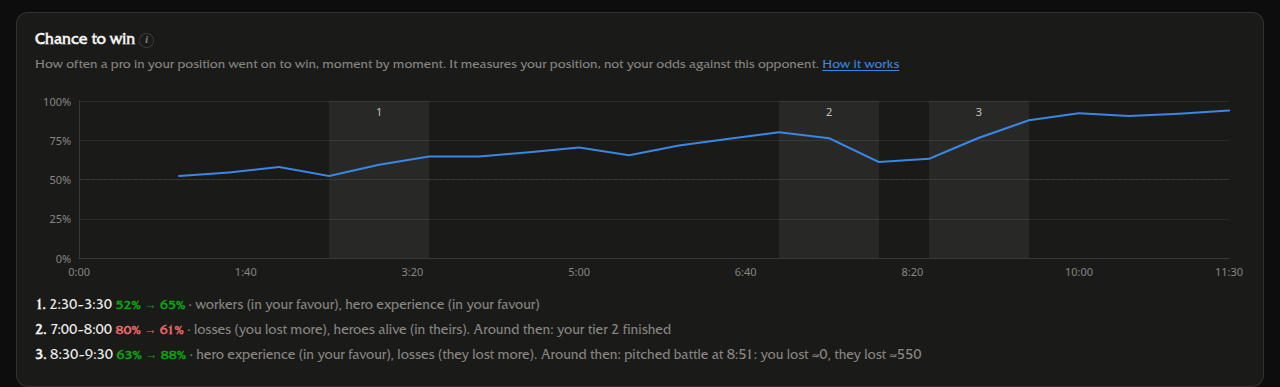
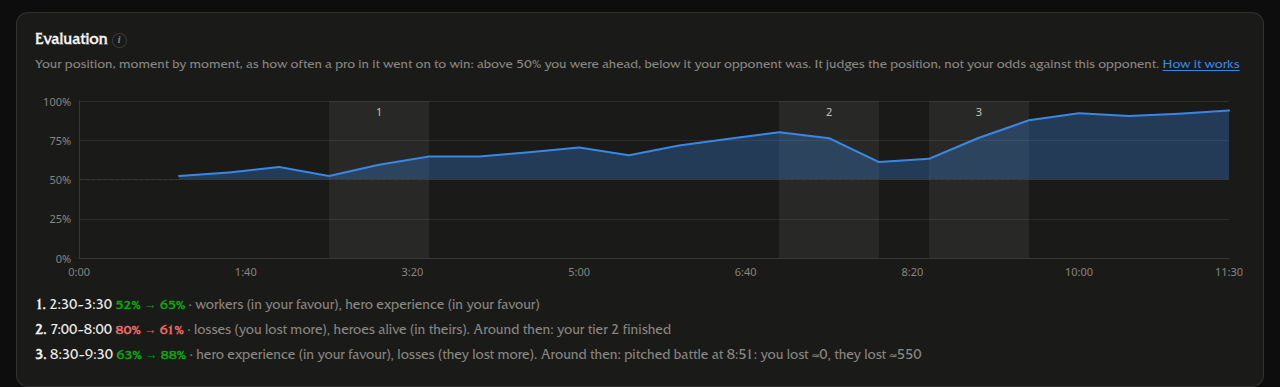
README and report: the evaluation curve, with the new screenshot

Changed region(s): [[0.125, 0.2791, 0.9688, 0.4651], [0.0312, 0.155, 0.9688, 0.186], [0.0312, 0.062, 0.125, 0.124]]

diff --git a/docs/win-chance/report.html b/docs/win-chance/report.html
@@ -1,5 +1,5 @@
 <!doctype html>
-<html lang="en"><head><meta charset="utf-8"><title>Replay Altar: the win-chance curve</title>
+<html lang="en"><head><meta charset="utf-8"><title>Replay Altar: the evaluation curve</title>
 <style>
   @page { size: A4; }
   body { font-family: "Inter", "Helvetica Neue", Arial, sans-serif; color: #0b0b0b; font-size: 10.5pt; line-height: 1.5; max-width: 760px; margin: 0 auto; }
@@ -16,10 +16,10 @@
   .eq { text-align: center; margin: 8px 0; font-family: "Cambria Math", "STIX Two Math", Georgia, serif; font-size: 11pt; }
   .best { font-weight: 600; }
 </style></head><body>
-<h1>The win-chance curve</h1>
+<h1>The evaluation curve</h1>
 <p class="sub">Replay Altar technical report · 2026-10-22 · results from commit <code>21a3a82</code> · GPL-3.0</p>
 
-<div class="abstract"><p><b>Summary.</b> For any 1v1 Warcraft III game, Replay Altar draws a curve of <i>how often professional players in the same position went on to win</i>, moment by moment, and explains its three biggest swings. The position is described by differences between the two players that can be reconstructed from the replay: army, workers, hero experience, heroes alive, expansions, resources lost and upgrades. A logistic regression whose weights change smoothly with game time was fitted on 513 curated pro games of the current patch and scored, without any refitting, on 2998 tournament games from 2022 to 2026 that it never saw. Its log loss is 0.6422 on those games (a coin flip scores 0.6931), it picks the eventual winner of 63% of games at 10 minutes and 69% at 20, and its confidence is honest on unseen pro games (calibration slope 1.03). This report describes the data, the model, how it was chosen and tested, and how to reproduce every number.</p></div>
+<div class="abstract"><p><b>Summary.</b> For any 1v1 Warcraft III game, Replay Altar draws an evaluation curve, like the graph chess sites draw under a game: at every moment, <i>how often professional players in the same position went on to win</i> (50% is even; in the app, blue while the player is ahead and red while the opponent is), and it explains the curve's three biggest swings. The position is described by differences between the two players that can be reconstructed from the replay: army, workers, hero experience, heroes alive, expansions, resources lost and upgrades. A logistic regression whose weights change smoothly with game time was fitted on 513 curated pro games of the current patch and scored, without any refitting, on 2998 tournament games from 2022 to 2026 that it never saw. Its log loss is 0.6422 on those games (a coin flip scores 0.6931), it picks the eventual winner of 63% of games at 10 minutes and 69% at 20, and its confidence is honest on unseen pro games (calibration slope 1.03). This report describes the data, the model, how it was chosen and tested, and how to reproduce every number.</p></div>
 
 <h2>1. What the curve means, and what it does not</h2>
 <p>The number at minute <i>t</i> answers one question: <i>among pro games, how often did a player with these leads and deficits at minute t go on to win?</i> It is a measure of <b>position</b>, learned from players who rarely throw a lead away. It is <b>not</b> a forecast of the game being analyzed: between players who miss more chances, leads are lost more often, so the curve is too sure for them, and that is intended. A player who sees the curve fall from 60% to 20% in one minute learns that a pro in that spot would have lost ground there; that is the use the curve is built for. The two players' chances always add up to 100%.</p>

diff --git a/README.md b/README.md
@@ -9,7 +9,7 @@ Replay Altar is a Warcraft III: Reforged replay analyzer for 1v1 players. It run
 - **Every replay kept, automatically.** A small background program saves each replay the moment a game ends, before the game overwrites `LastReplay.w3g`. Battle.net ladder, W3Champions and custom melee games are all picked up, with nothing to upload or click.
 - **The game reconstructed.** Each 1v1 is simulated from its replay with the [WC3V](https://github.com/jblanchette/wc3v) engine: workers, army value, supply, creep camps, hero levels and fights over time.
 - **A coach's report after every game.** Rules drawn from well-known guides (Grubby, Liquipedia, Warcraft 3 Gym, Vortix and others) name the problems that cost you the game, show the facts behind each one, explain why it happened and say what to do next time. The report also points out the fight that turned the game (with the moment to rewatch), your strengths and the opponent's plan.
-- **Your chance to win, moment by moment.** <kbd>upcoming</kbd> A curve of how often a pro player in your position went on to win, at every moment of the game, with the three moments that swung it most and what moved them. [More below](#the-win-chance-curve).
+- **An evaluation curve, like in chess.** <kbd>upcoming</kbd> Who was ahead at every moment of the game, as how often a pro player in your position went on to win, with the three moments that swung it most and what moved them. [More below](#the-evaluation-curve).
 - **One thing to work on.** Each report ends with the single most useful habit for your next game. Across your recent games, the Performance page picks the problem that keeps coming back and shows whether it is getting better.
 - **Every number in context.** Your numbers are placed among about 200 recent tournament games of your race and matchup, on the current patch ("better than 86% of pro games"), with a green, yellow or red verdict: at pro level, at least as good as your opponent, or behind both.
 - **Knows your build.** It recognises the build order each player went for, from guide builds and builds mined from pro games, and shows where your timings drifted from the pros who play it.
@@ -25,13 +25,13 @@ Your games stay on your computer. Replay Altar fetches only two things from the 
 
 > Replay Altar is a fan project. It is not affiliated with, endorsed by or connected to Blizzard Entertainment. Warcraft is a trademark of Blizzard Entertainment, Inc. The game's data and pictures (unit costs, race crests, hero portraits, the game's font) are read from your own Warcraft III installation, never modified there, and never distributed with this project; the screenshots on this page only show them as the app displays them.
 
-## The win-chance curve
+## The evaluation curve
 
 <kbd>upcoming</kbd> in the next version.
 
-![The chance-to-win chart of one game: the curve over time with three swings marked, and under it what moved each swing and what happened then](docs/images/win-chance.png)
+![The evaluation chart of one game: the curve over time, blue while you were ahead, with three swings marked, and under it what moved each swing and what happened then](docs/images/win-chance.png)
 
-Each game's page shows a curve of your **chance to win**, from the first minute to the last. At every moment, Replay Altar compares your position with your opponent's: army, workers, hero experience, heroes alive, expansions, units lost and upgrades. The curve then answers one question: **how often did professional players in that same position go on to win?** It learned the answer from 513 recent pro games.
+Each game's page shows an **evaluation curve**, like the ones chess sites draw under a game: blue while you were ahead, red while your opponent was, from the first minute to the last. At every moment, Replay Altar compares your position with your opponent's: army, workers, hero experience, heroes alive, expansions, units lost and upgrades. Its height answers one question: **how often did professional players in that same position go on to win?** 50% is even. It learned the answer from 513 recent pro games.
 
 Read it as a measure of how good your position was, not as a prediction of your game. Pros rarely throw a lead away, so the curve is more sure of itself than games between less experienced players turn out. That is on purpose: when the curve drops from 60% to 20% in a minute, that is a moment where a pro would have lost ground, and worth rewatching. The three biggest swings are marked on the chart, with the differences that moved them (for example "losses: you lost more", "hero experience: in their favour") and what happened around then (a fight and what each side lost, a hero dying, an expansion falling, a tier finishing).
 
